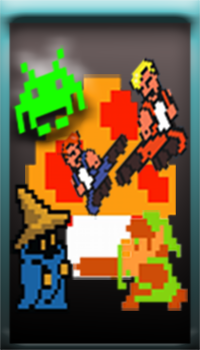
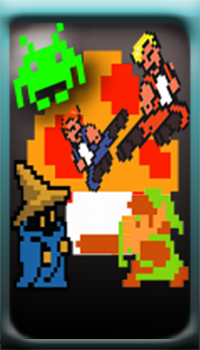
Y SIN GITIGNORAAAH

diff --git a/ProyectoInicial/src/vista/PantallaHistoria.java b/ProyectoInicial/src/vista/PantallaHistoria.java
@@ -85,10 +85,12 @@ public class PantallaHistoria extends JPanel {
 		lblMarco80.setIcon(new ImageIcon(marco80));
 		this.add(lblMarco80);
 		
-		JLabel lblMarco90 = new JLabel("/Marco.png");
+		Image marco90 = new ImageIcon(this.getClass().getResource("/Marco90.png")).getImage();
+		JLabel lblMarco90 = new JLabel("/Marco90.png");
 		lblMarco90.setBounds(575,200,200,350);
-		lblMarco90.setIcon(new ImageIcon(marcoDecadas));
+		lblMarco90.setIcon(new ImageIcon(marco90));
 		this.add(lblMarco90);
+		
 		
 		JLabel lblMarco00 = new JLabel("/Marco.png");
 		lblMarco00.setBounds(825,200,200,350);
